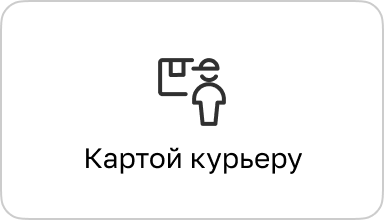
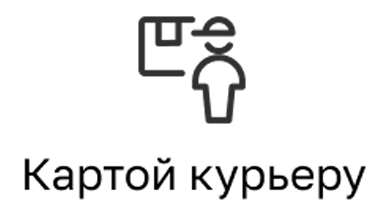
om

diff --git a/pages/contacts/index.vue b/pages/contacts/index.vue
@@ -1,7 +1,8 @@
 <script setup lang="ts">
 import BaseContainer from '~/components/layout/BaseContainer.vue'
 import { useHead } from '@unhead/vue'
-import { ref } from 'vue'
+import { computed, ref } from 'vue'
+import { useFeedback } from '~/composables/useFeedback'
 
 definePageMeta({ layout: 'main' })
 
@@ -49,6 +50,59 @@ useHead({
     }
   ]
 })
+
+
+const fio = ref('')
+const phone = ref('')          // вводим как есть: +7 (___) ___-__-__
+const message = ref('')
+const agree = ref(false)
+
+const errors = ref<{ fio?: string; phone?: string; message?: string; agree?: string }>({})
+const success = ref<{ shown: boolean; leadId?: number }>({ shown: false })
+
+const { loading, error: sendError, send } = useFeedback()
+
+// простая нормализация телефона в E.164 для RU
+function normalizePhone(input: string) {
+  const digits = input.replace(/\D/g, '')
+  if (digits.startsWith('8')) return `+7${digits.slice(1)}`
+  if (digits.startsWith('7')) return `+7${digits.slice(1)}`
+  if (digits.startsWith('9') && digits.length === 10) return `+7${digits}`
+  return input.startsWith('+') ? input : `+${digits}`
+}
+
+const validPhone = (p: string) => /^\+7\d{10}$/.test(normalizePhone(p))
+
+function validate() {
+  errors.value = {}
+  if (!fio.value.trim() || fio.value.trim().length < 5) errors.value.fio = 'Укажите ФИО полностью'
+  if (!phone.value.trim() || !validPhone(phone.value))  errors.value.phone = 'Телефон в формате +7XXXXXXXXXX'
+  if (!message.value.trim() || message.value.trim().length < 5) errors.value.message = 'Напишите сообщение'
+  if (!agree.value) errors.value.agree = 'Необходимо согласие'
+  return Object.keys(errors.value).length === 0
+}
+
+async function submitCallback() {
+  if (loading.value) return
+  if (!validate()) return
+  const payload = {
+    fio: fio.value.trim(),
+    phone_number: normalizePhone(phone.value),
+    message: message.value.trim()
+  }
+  const res = await send(payload)
+  if (res.success) {
+    success.value = { shown: true, leadId: res.lead_id }
+    // очистим форму
+    fio.value = ''
+    phone.value = ''
+    message.value = ''
+    agree.value = false
+  } else {
+    // покажем общую ошибку сверху формы (можно и toast)
+    errors.value = { ...errors.value, message: sendError.value || 'Не удалось отправить' }
+  }
+}
 </script>
 
 <template>
@@ -161,16 +215,71 @@ useHead({
             </div>
 
             <div class="w-full lg:w-2/6 flex flex-col gap-4">
-              <form class="flex flex-col gap-4">
+              <form class="flex flex-col gap-3 md:gap-4" @submit.prevent="submitCallback" novalidate>
                 <h2 class="text-xl md:text-3xl font-medium mt-2 md:mt-0">Напишите нам</h2>
-                <input type="text" placeholder="ФИО" class="border rounded-lg p-2" />
-                <input type="tel" placeholder="+7 (___) ___-__-__" class="border rounded-lg p-2" />
-                <textarea placeholder="Сообщение" rows="5" class="border rounded-lg p-2"></textarea>
+
+                <!-- общая ошибка -->
+                <p v-if="sendError" class="text-red-600 text-sm -mb-1">{{ sendError }}</p>
+
+                <div>
+                  <input
+                    v-model="fio"
+                    type="text"
+                    placeholder="ФИО"
+                    class="border rounded-lg p-2 w-full"
+                    autocomplete="name"
+                    aria-label="ФИО"
+                  />
+                  <p v-if="errors.fio" class="text-red-600 text-sm mt-1">{{ errors.fio }}</p>
+                </div>
+
+                <div>
+                  <input
+                    v-model="phone"
+                    type="tel"
+                    placeholder="+7 (___) ___-__-__"
+                    class="border rounded-lg p-2 w-full"
+                    inputmode="tel"
+                    autocomplete="tel"
+                    aria-label="Телефон"
+                  />
+                  <p v-if="errors.phone" class="text-red-600 text-sm mt-1">{{ errors.phone }}</p>
+                </div>
+
+                <div>
+                  <textarea
+                    v-model="message"
+                    placeholder="Сообщение"
+                    rows="5"
+                    class="border rounded-lg p-2 w-full"
+                    aria-label="Сообщение"
+                  />
+                  <p v-if="errors.message" class="text-red-600 text-sm mt-1">{{ errors.message }}</p>
+                </div>
+
+                <!-- honeypot (анти-бот, невидимое поле) -->
+                <input type="text" name="company" class="hidden" tabindex="-1" autocomplete="off" />
+
                 <label class="flex items-center gap-2 text-sm">
-                  <input type="checkbox" /> Принимаю политику конфиденциальности
+                  <input type="checkbox" v-model="agree" />
+                  <span>Принимаю политику конфиденциальности</span>
                 </label>
-                <button type="submit" class="bg-primary hover:bg-primary text-white tracking-wide py-3 rounded-lg">Отправить</button>
+                <p v-if="errors.agree" class="text-red-600 text-sm -mt-2">{{ errors.agree }}</p>
+
+                <button
+                  type="submit"
+                  class="bg-primary hover:bg-primary text-white tracking-wide py-3 rounded-lg disabled:opacity-60"
+                  :disabled="loading"
+                >
+                  {{ loading ? 'Отправка…' : 'Отправить' }}
+                </button>
+
+                <!-- успешная отправка -->
+                <div v-if="success.shown" class="bg-green-50 border border-green-200 text-green-800 rounded-lg p-3">
+                  Заявка отправлена! {{ success.leadId ? `ID обращения: ${success.leadId}` : '' }}
+                </div>
               </form>
+
 
               <div class="flex flex-col gap-4 mt-4">
                 <a href="https://s3.firstvds.ru/materials/preza.pdf" class="text-primary flex flex-row gap-2 items-center" download><img src="/icons/download.svg" /> <span>Презентация</span></a>

diff --git a/pages/researches/item/[slug].vue b/pages/researches/item/[slug].vue
@@ -8,6 +8,7 @@ import AccordionItem from '~/components/ui/AccordionItem.vue'
 import { useResearchStore } from '~/stores/researchStore'
 import type { ArticleDetail } from '~/types/articles'
 import UiInput from '~/components/ui/UiInput.vue'
+import { useNewsletter } from '~/composables/useNewsletter'
 
 definePageMeta({ layout: 'main' })
 
@@ -18,11 +19,12 @@ const store = useResearchStore()
 const { currentResearch } = storeToRefs(store)
 
 // SSR fetch (берём по slug)
-const { data: research, error } = await useAsyncData<ArticleDetail>(`research:${slug.value}`, () =>
-  store.fetchResearchById(slug.value).then(() => store.currentResearch as ArticleDetail)
+const { data: research, error: researchError } = await useAsyncData<ArticleDetail>(
+  `research:${slug.value}`,
+  () => store.fetchResearchById(slug.value).then(() => store.currentResearch as ArticleDetail)
 )
 
-if (error.value) {
+if (researchError.value) {
   throw createError({ statusCode: 404, statusMessage: 'Исследование не найдено' })
 }
 
@@ -112,29 +114,35 @@ const ClientComments = defineAsyncComponent(() => import('~/components/Comments/
 
 
 const email = ref('')
-const loading = ref(false)
 const success = ref(false)
 const emailErr = ref<string | boolean>('')
+
+const { loading, error: subscribeError, subscribe } = useNewsletter()
 
 const emailValid = computed(() =>
   /^[^\s@]+@[^\s@]+\.[^\s@]+$/.test(email.value.trim())
 )
+
 function validateEmail() {
   if (!email.value.trim()) { emailErr.value = 'Введите e-mail'; return false }
   if (!emailValid.value)   { emailErr.value = 'Некорректный e-mail'; return false }
   emailErr.value = ''
   return true
 }
-const sleep = (ms:number) => new Promise(r => setTimeout(r, ms))
+
 async function submitSubscribe() {
   if (loading.value) return
   if (!validateEmail()) return
-  loading.value = true
-  try {
-    await sleep(900)
+
+  // (опционально) нормализуем
+  const normalized = email.value.trim().toLowerCase()
+
+  const ok = await subscribe(normalized)
+  if (ok) {
     success.value = true
-  } finally {
-    loading.value = false
+  } else {
+    // текст ошибки с сервера/прокси попадёт сюда
+    emailErr.value = subscribeError.value || 'Не удалось оформить подписку'
   }
 }
 </script>

diff --git a/pages/researches/[slug].vue b/pages/researches/[slug].vue
@@ -1,7 +1,8 @@
 <script setup lang="ts">
 import BaseContainer from '~/components/layout/BaseContainer.vue'
 import Button from '~/components/ui/Button.vue'
-import UiInput from '~/components/ui/UiInput.vue' // ⬅ добавили
+import UiInput from '~/components/ui/UiInput.vue'
+import { useNewsletter } from '~/composables/useNewsletter'
 
 definePageMeta({ layout: 'main' })
 
@@ -47,11 +48,11 @@ function fmt(d: string) {
   return date.toLocaleDateString('ru-RU')
 }
 
-/* ---------- Подписка (фейковый успех) ---------- */
 const email = ref('')
-const loading = ref(false)
 const success = ref(false)
 const emailErr = ref<string | boolean>('')
+
+const { loading, error, subscribe } = useNewsletter()
 
 const emailValid = computed(() =>
   /^[^\s@]+@[^\s@]+\.[^\s@]+$/.test(email.value.trim())
@@ -64,18 +65,16 @@ function validateEmail() {
   return true
 }
 
-const sleep = (ms:number) => new Promise(r => setTimeout(r, ms))
-
 async function submitSubscribe() {
   if (loading.value) return
   if (!validateEmail()) return
-  loading.value = true
-  try {
-    // имитация запроса
-    await sleep(900)
+
+  const ok = await subscribe(email.value.trim())
+  if (ok) {
     success.value = true
-  } finally {
-    loading.value = false
+  } else {
+    // пробрасываем текст ошибки под инпут
+    emailErr.value = error.value || 'Не удалось оформить подписку'
   }
 }
 </script>

diff --git a/composables/useFeedback.ts b/composables/useFeedback.ts
@@ -1,0 +1,33 @@
+export type CallbackPayload = {
+  fio: string
+  phone_number: string
+  message: string
+}
+
+export type CallbackResult = { success: boolean; lead_id?: number }
+
+export const useFeedback = () => {
+  const loading = ref(false)
+  const error = ref<string | null>(null)
+
+  const send = async (payload: CallbackPayload): Promise<CallbackResult> => {
+    loading.value = true
+    error.value = null
+    try {
+      const { data, error: fetchErr } = await useFetch<CallbackResult>('/api/feedback/callback', {
+        method: 'POST',
+        body: payload
+      })
+      if (fetchErr.value) throw new Error(fetchErr.value.statusMessage || 'Ошибка отправки')
+      if (!data.value?.success) throw new Error('Не удалось отправить заявку')
+      return data.value
+    } catch (e: any) {
+      error.value = e?.message || 'Неизвестная ошибка'
+      return { success: false }
+    } finally {
+      loading.value = false
+    }
+  }
+
+  return { loading, error, send }
+}

diff --git a/server/api/feedback/callback.post.ts b/server/api/feedback/callback.post.ts
@@ -1,0 +1,28 @@
+// server/api/feedback/callback.post.ts
+import { defineEventHandler, readBody } from 'h3'
+
+type CallbackReq = { fio: string; phone_number: string; message: string }
+type GoResp = { success: boolean; lead_id?: number; message?: string }
+
+export default defineEventHandler(async (event) => {
+  const body = await readBody<CallbackReq>(event)
+  if (!body?.fio || !body?.phone_number || !body?.message) {
+    event.node.res.statusCode = 400
+    return { success: false, message: 'Все поля обязательны' }
+  }
+
+  // ⬅ БЕРЁМ ИЗ public
+  const { public: { daigoApiBase } } = useRuntimeConfig()
+
+  try {
+    const res = await $fetch<GoResp>('/v1/shop/feedback/callback', {
+      baseURL: daigoApiBase, // например https://api.daigo.ru
+      method: 'POST',
+      body
+    })
+    return res
+  } catch (e: any) {
+    event.node.res.statusCode = 502
+    return { success: false, message: e?.message || 'Gateway error' }
+  }
+})

diff --git a/server/api/newsletter/subscribe.post.ts b/server/api/newsletter/subscribe.post.ts
@@ -1,0 +1,30 @@
+// server/api/newsletter/subscribe.post.ts
+import { defineEventHandler, readBody } from 'h3'
+
+type SubscribeReq = { email: string }
+type GoResp = { success: boolean; message?: string }
+
+export default defineEventHandler(async (event) => {
+  const body = await readBody<SubscribeReq>(event)
+  const email = (body?.email || '').trim().toLowerCase()
+
+  if (!email) {
+    event.node.res.statusCode = 400
+    return { success: false, message: 'Email is required' }
+  }
+
+  // берем из public-конфига
+  const { public: { daigoApiBase } } = useRuntimeConfig()
+
+  try {
+    const res = await $fetch<GoResp>('/v1/shop/newsletter/subscribe', {
+      baseURL: daigoApiBase,
+      method: 'POST',
+      body: { email }
+    })
+    return res // { success: true }
+  } catch (e: any) {
+    event.node.res.statusCode = 502
+    return { success: false, message: e?.message || 'Gateway error' }
+  }
+})

diff --git a/composables/useNewsletter.ts b/composables/useNewsletter.ts
@@ -1,0 +1,31 @@
+export const useNewsletter = () => {
+  const loading = ref(false)
+  const error = ref<string | null>(null)
+
+  const subscribe = async (email: string) => {
+    error.value = null
+    loading.value = true
+    try {
+      const { data, error: fetchErr } = await useFetch('/api/newsletter/subscribe', {
+        method: 'POST',
+        body: { email }
+      })
+
+      if (fetchErr.value) {
+        throw new Error(fetchErr.value.statusMessage || 'Ошибка подписки')
+      }
+
+      if (!data.value?.success) {
+        throw new Error('Не удалось оформить подписку')
+      }
+      return true
+    } catch (e: any) {
+      error.value = e?.message || 'Неизвестная ошибка'
+      return false
+    } finally {
+      loading.value = false
+    }
+  }
+
+  return { loading, error, subscribe }
+}
